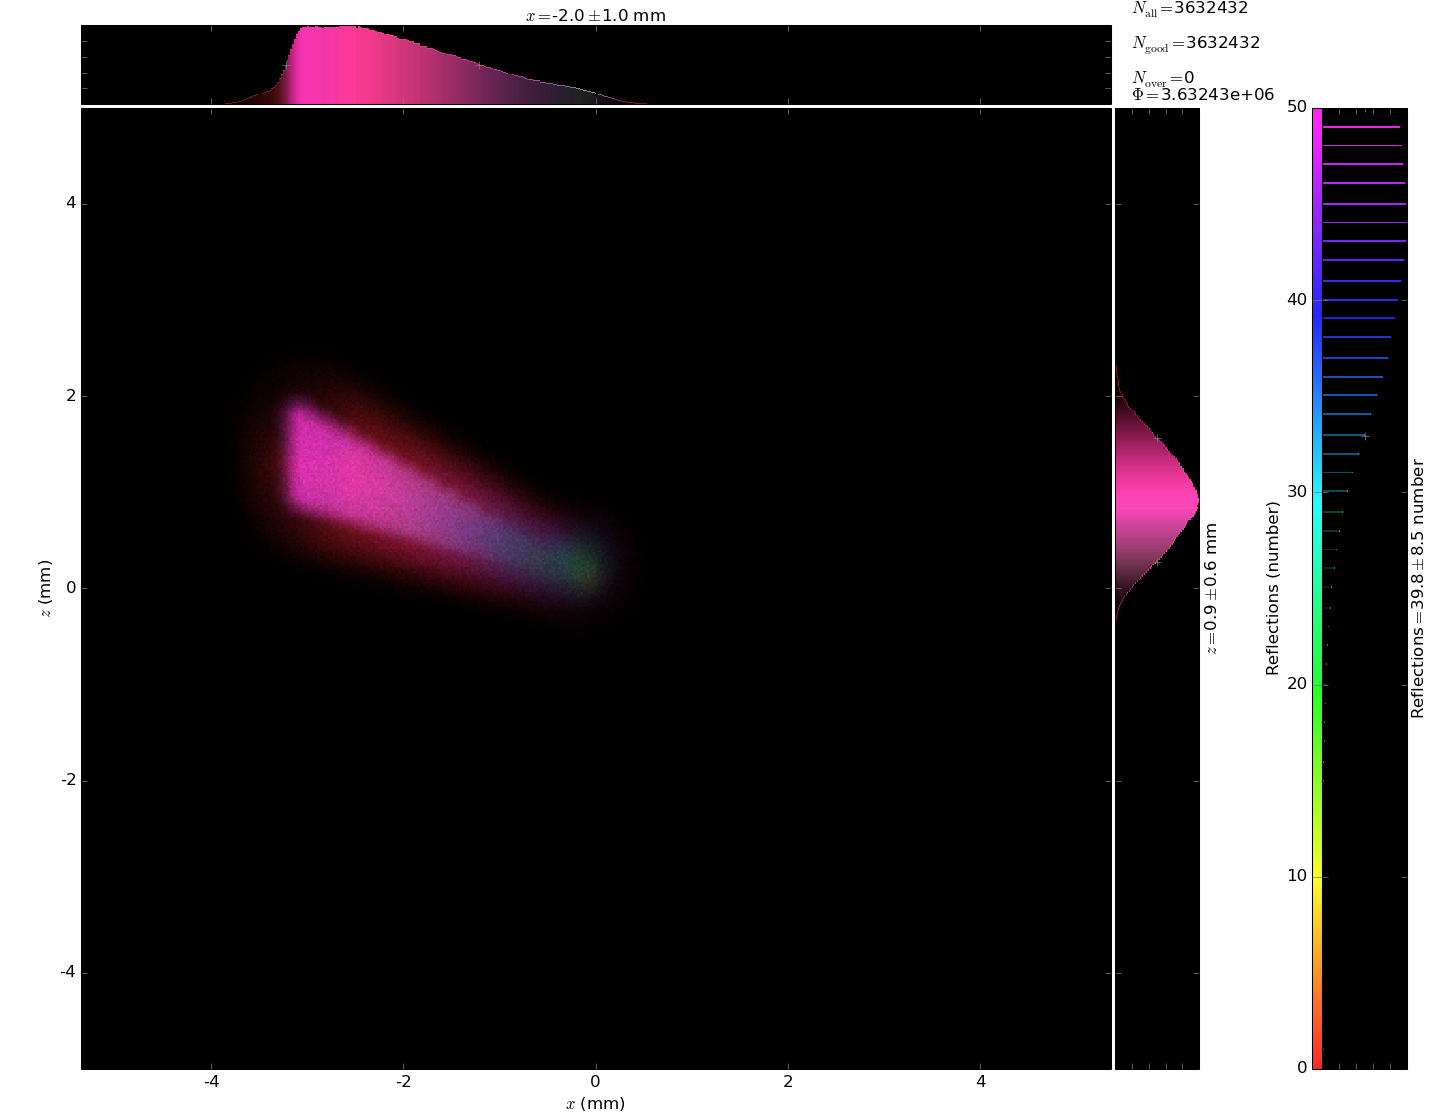
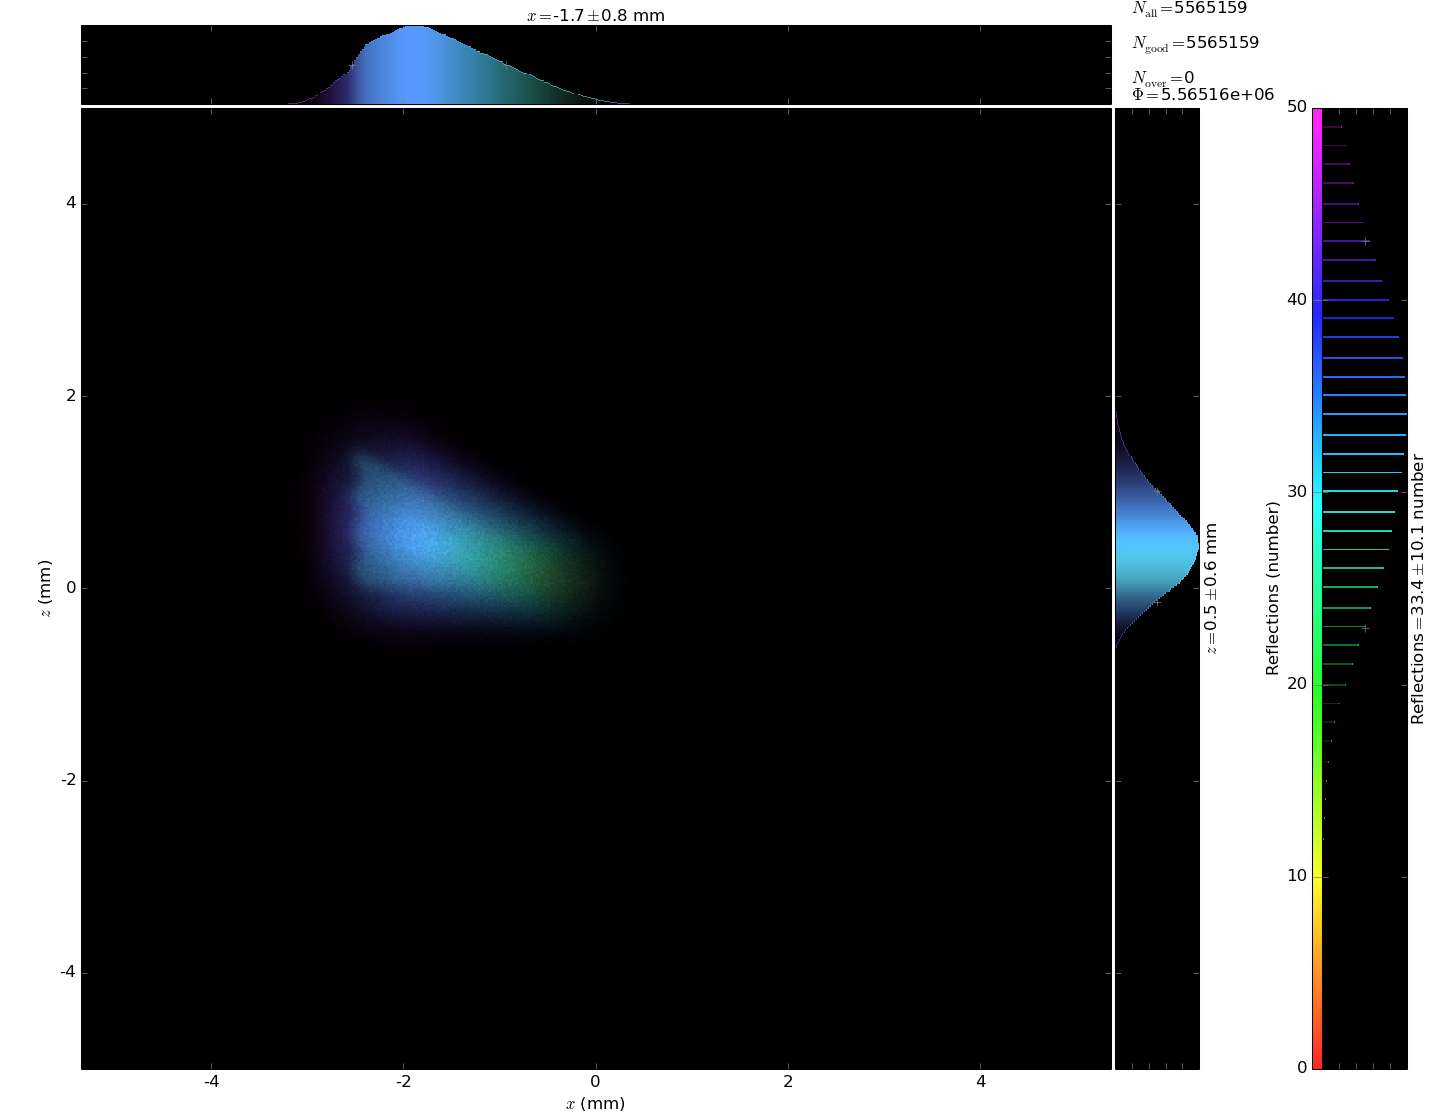
Full run of a previous shape
- 1 GB beam
- some new problems corelated to the low width of a capillaries

diff --git a/main.py b/main.py
@@ -28,9 +28,9 @@ def create_lens():
     # This is used to control capillaries' curvature
     lens = lp.PolyCapillaryLens(y_settings=y_settings,\
                                 D_settings=D_settings)
-    structure = st.CakePiece(rIn = 0.005,\
+    structure = st.CakePiece(rIn = 0.01,\
                                 nx_capillary = 27,\
-                                ny_bundle = 29)
+                                ny_bundle = 15)
     lens.set_structure(structure)
 
     return lens
@@ -45,9 +45,9 @@ def create_beam(dirname):
     setup = eb.MultipleCapillariesFittedSource()
     setup.set_capillaries(caps)
     # Number of photons per run per capillary
-    setup.set_nrays(30)
+    setup.set_nrays(50)
     # Number of runs
-    setup.set_repeats(48)
+    setup.set_repeats(16)
     # Photon storage directory
     setup.set_folder(dirname)
 

diff --git a/elements/structures.py b/elements/structures.py
@@ -151,7 +151,7 @@ class HexStructure(object):
 
 class CakePiece(HexStructure):
     """ Cuts a angle defined piece from the hexagonal structure """
-    def __init__(self, angle=np.pi/12.0, **kwargs):
+    def __init__(self, angle=np.pi/6.0, **kwargs):
 	""" hwat """
 	HexStructure.__init__(self, **kwargs)
 	# Cut unwanted positions away from the structure
@@ -160,7 +160,7 @@ class CakePiece(HexStructure):
 	for x, y in zip(self.xci, self.yci):
 	    phi = np.arctan2(y, x)
 	    # TODO refactor the angle out
-	    if np.pi/2 > phi > angle:
+	    if 0 < phi < angle:
 		new_xi.append(x)
 		new_yi.append(y)
 
